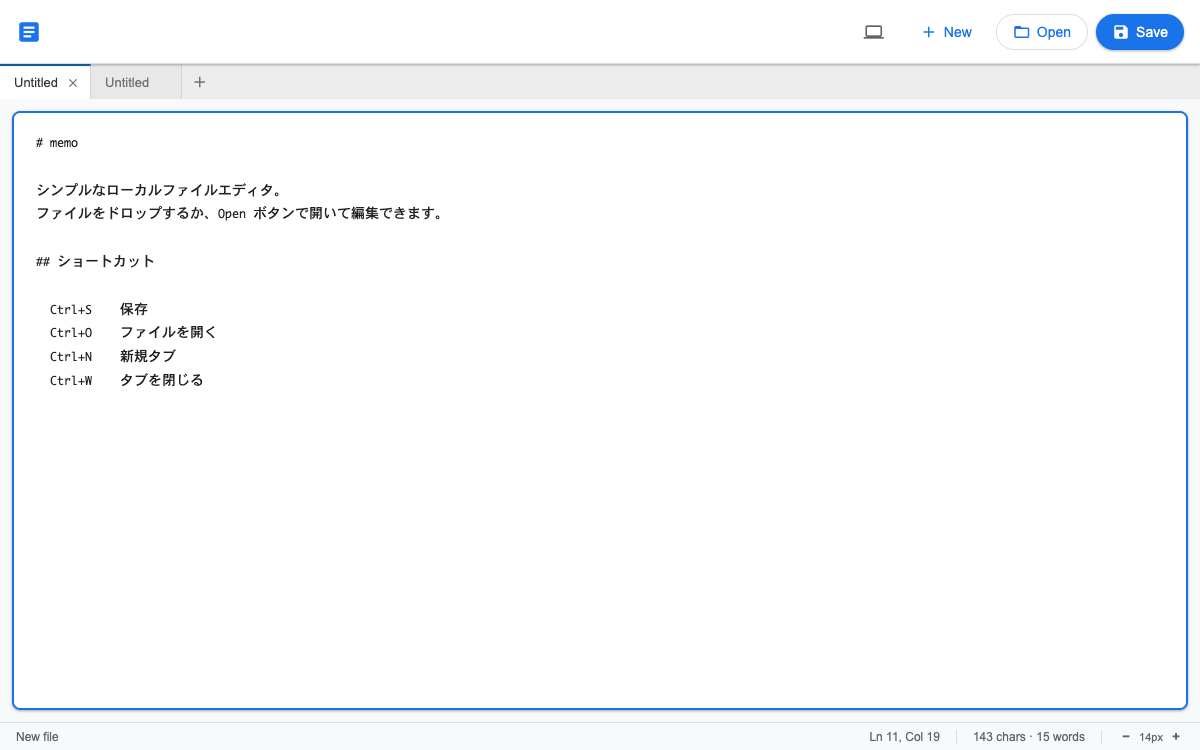
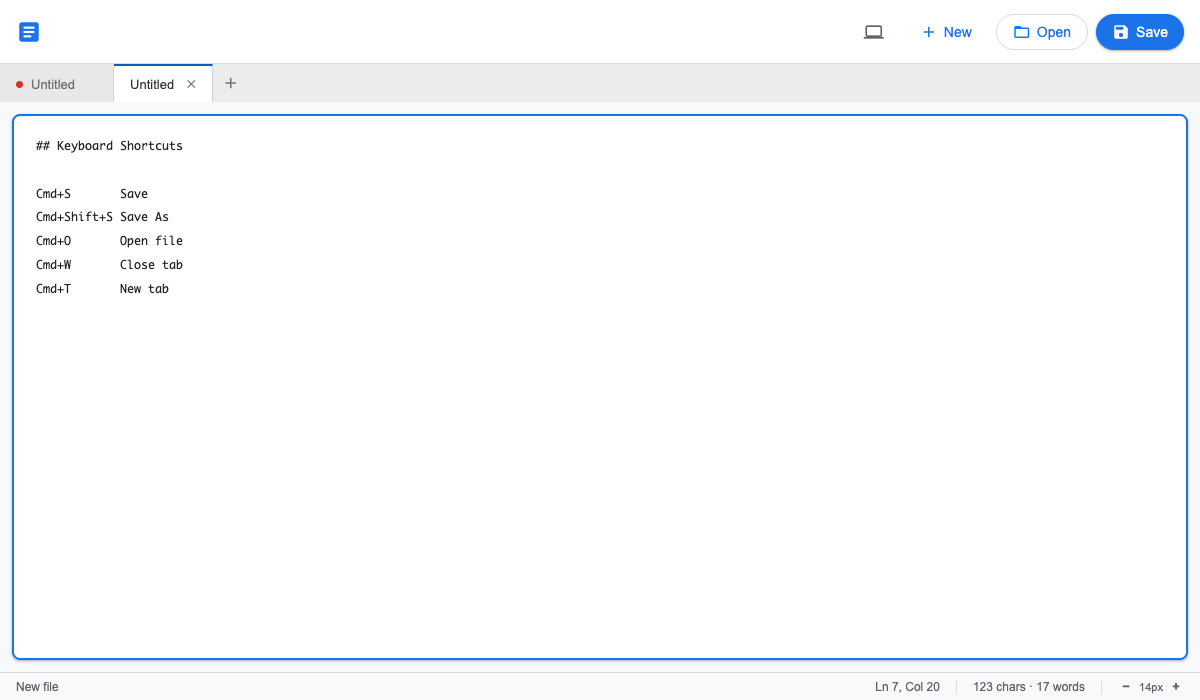
style: タブ余白の拡張とアプリバーの影を削除
- タブの gap を 6px → 8px、padding を広げて余白を改善
- タブバーの高さを 35px → 38px に拡張
- アプリバーの box-shadow を削除してフラットな外観に
- README のスクリーンショットを更新

Changed region(s): [[0.0, 0.03, 1.0, 0.21], [0.0308, 0.24, 0.37, 0.54], [0.0, 0.93, 0.9867, 0.99]]

diff --git a/index.html b/index.html
@@ -106,7 +106,7 @@
       padding: 0 16px;
       background: var(--md-surface);
       border-bottom: 1px solid var(--md-outline);
-      box-shadow: var(--shadow-1);
+      /* box-shadow removed */
       gap: 12px;
       flex-shrink: 0;
       z-index: 10;
@@ -125,7 +125,7 @@
     #tab-bar {
       display: flex;
       align-items: stretch;
-      height: 35px;
+      height: 38px;
       background: var(--vscode-strip);
       overflow-x: auto;
       overflow-y: hidden;
@@ -138,8 +138,8 @@
       position: relative;
       display: flex;
       align-items: center;
-      gap: 6px;
-      padding: 0 8px 0 14px;
+      gap: 8px;
+      padding: 0 12px 0 16px;
       min-width: 80px;
       max-width: 200px;
       flex-shrink: 0;
